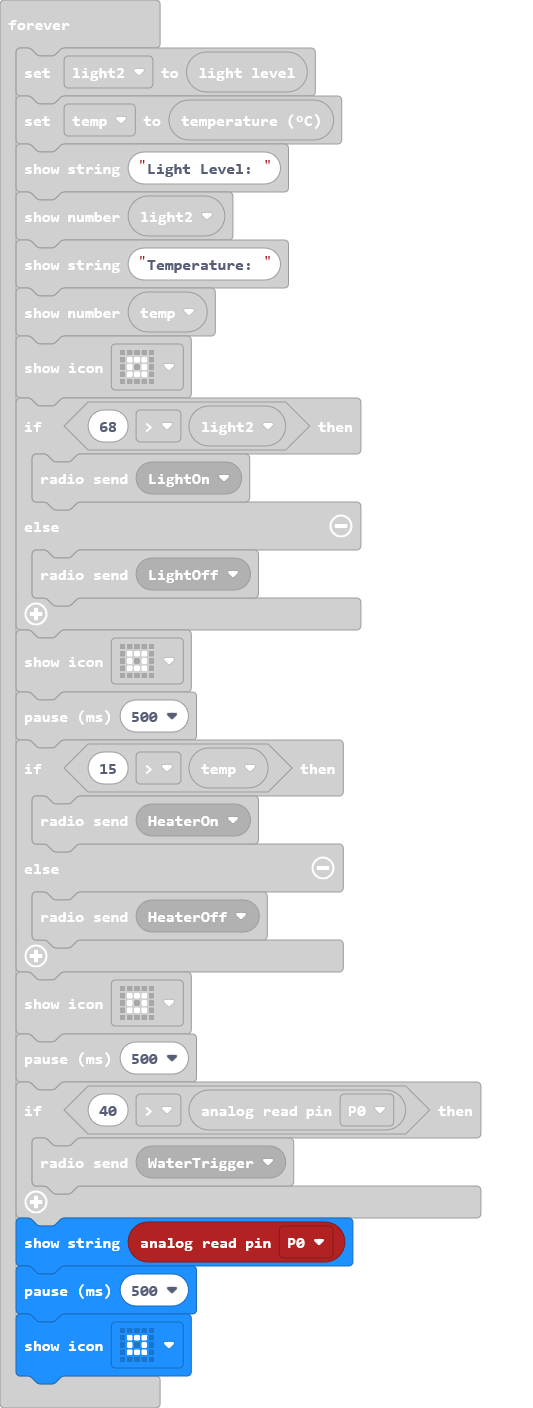
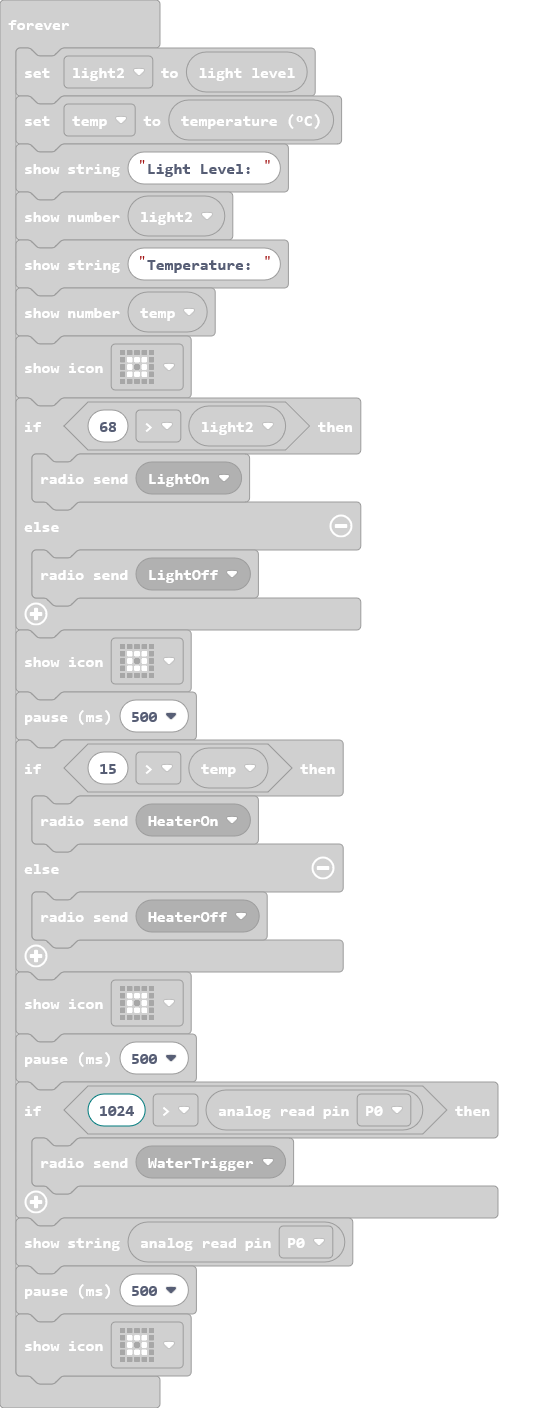
Update main.blocks, main.ts

diff --git a/main.ts b/main.ts
@@ -33,7 +33,7 @@ basic.forever(function () {
     }
     basic.showIcon(IconNames.SmallSquare)
     basic.pause(500)
-    if (40 > pins.analogReadPin(AnalogPin.P0)) {
+    if (1024 > pins.analogReadPin(AnalogPin.P0)) {
         radio.sendMessage(RadioMessage.WaterTrigger)
     }
     basic.showString("" + (pins.analogReadPin(AnalogPin.P0)))
